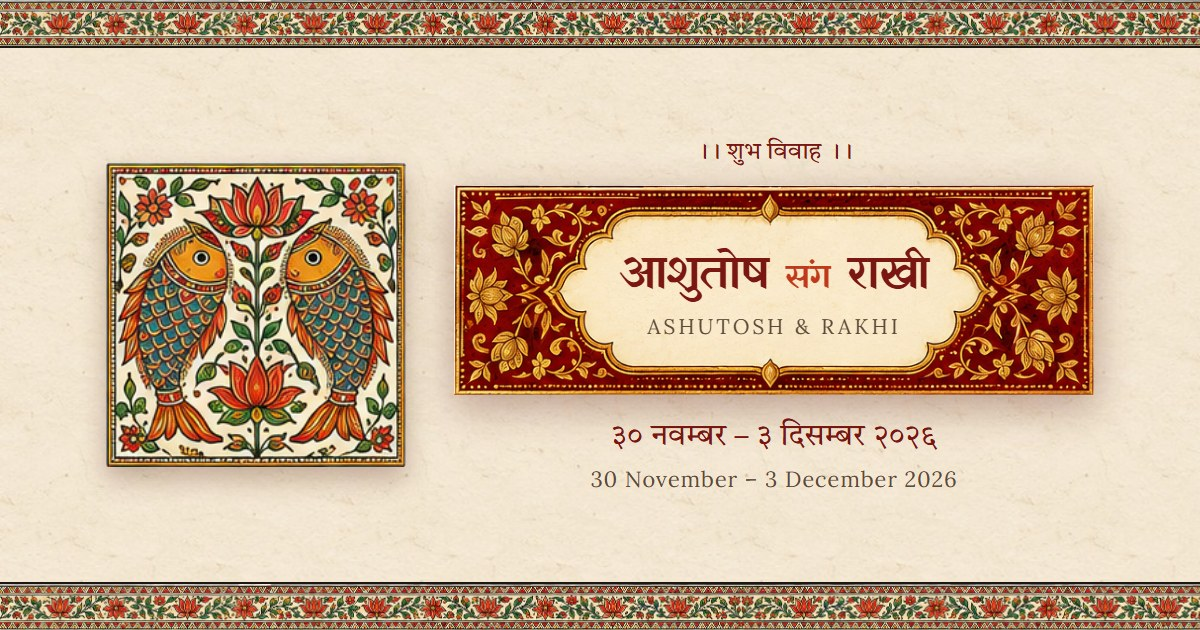
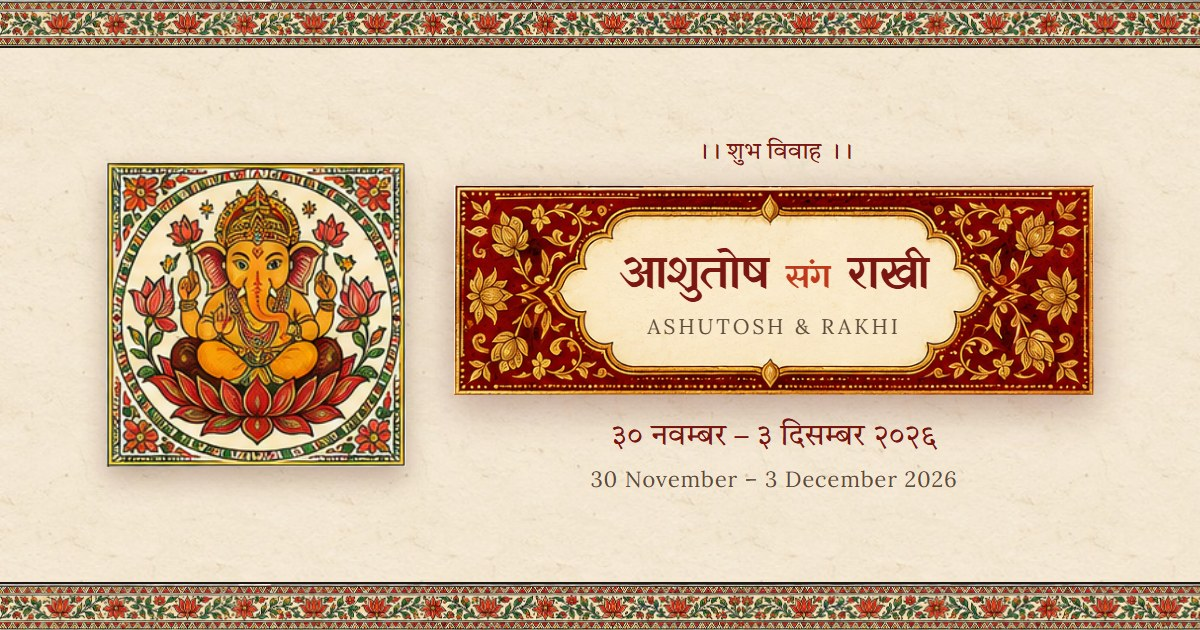
Opening page: Ganesh in place of the fish

Changed region(s): [[0.0617, 0.2413, 0.3392, 0.754]]

diff --git a/index.html b/index.html
@@ -35,8 +35,8 @@
 <!-- ============================== HERO ============================== -->
 <header id="hero">
   <figure class="tile hero-fish">
-    <img src="assets/gen/fish-pair.png" width="219" height="222"
-         alt="Jugal machli — two fish facing each other around a lotus, the Mithila symbol of marriage" />
+    <img src="assets/gen/ganesh.png" width="222" height="225"
+         alt="Shri Ganesh seated on a lotus inside a floral medallion" />
   </figure>
 
   <div class="nameplate">
